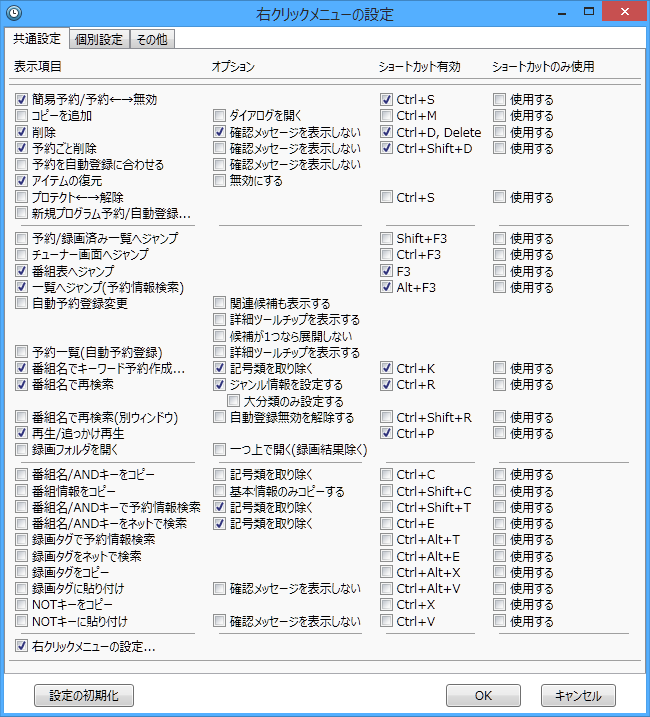
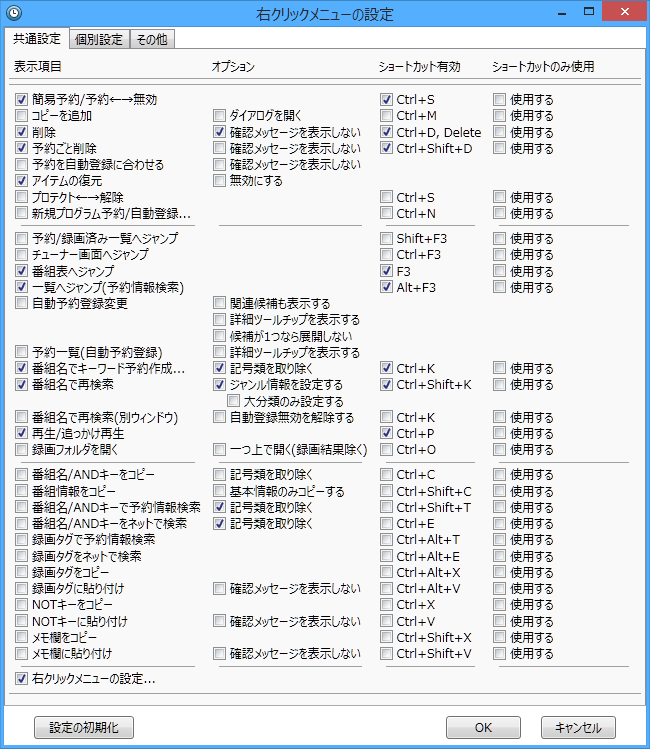
update

diff --git a/index.html b/index.html
@@ -22,7 +22,7 @@
 
 <h2 style="margin-top: 0em;">リポジトリに戻る</h2>
 <ul>
-<li><a href="https://github.com/tkntrec/EDCB">tkntrec@EDCB</a> (my-build-s 2024.02.22)</li>
+<li><a href="https://github.com/tkntrec/EDCB">tkntrec@EDCB</a> (my-build-s 2025.01.25)</li>
 <li><a href="https://github.com/tkntrec/EDCB_PrtSc">この画面一覧のリポジトリ</a></li>
 </ul>
 
